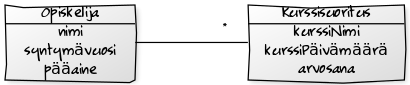
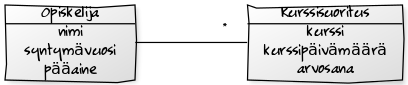
johdantoa relaatiomalliin

diff --git a/index.html b/index.html
@@ -201,9 +201,14 @@
 
                 <ul class="nav" id="material-toc"></ul>
 
-                <h1>Tehtävät</h1>
+                <h1>Materiaalin itseopiskelu- ja kertaustehtävät</h1>
 
                 <ul class="nav nav-pills nav-pills-fixed-width" id="tehtavat-toc"></ul>
+
+                <h1>Kurssin tehtävät</h1>
+
+		<p>tänne viikoittaiset laskarit..</p>
+
 
             </section>
             <!-- END INDEX -->
@@ -227,7 +232,11 @@
 
 		<p>Puhekielessä termillä tietokanta tarkoitetaan yleisesti ottaen tiedon tallentamiseen tarkoitettua paikkaa, josta tietoa voi myös hakea. Esimerkiksi kirkonkirjat voidaan nähdä eräänlaisena sukujen historiaa dokumentoivana tietokantana, jonka kautta sukututkija pääsee käsiksi sukunsa historiaan. Vaikka tietokannat ovat digitalisaation myötä siirtymässä paperisesta muodosta sähköiseen muotoon, on niiden tavoite pysynyt pitkälti samana: <em>haluamme säilöä tietoa, ja haluamme päästä tähän tietoon käsiksi</em>. Tällä kurssilla käsittelemme elektronisia tietokantoja, joiden kehittyminen on johtanut tilanteeseen, missä tietoa tallennetaan yhä enemmän ja sitä halutaan hyödyntää yhä monipuolisemmin.</p>
 
+		<p>[tehtävä: hae tietoa jostain olemassaolevasta tietokannasta ei-triviaalia käyttöliittymää käyttäen, esim. Hiski -- http://hiski.genealogia.fi/hiski/ ja http://digi.kansalliskirjasto.fi/?language=fi]</p>
+
 		<p>Nykyään tietokantoja on kaikkialla. Tämä kurssimateriaali sijaitsee tietokannassa, kurssitehtäviin liittyvät pisteet kirjataan tietokantaan, ja tehdessäsi kurssilla tarpeeksi töitä kurssiin liittyvien oppimistavoitteiden saavuttamiseksi kurssista kirjataan suoritusmerkintä tietokantaan. Jo pelkästään nykyaikaisessa kännykässäsi on kymmeniä erilaisia tietokantoja; yhteystiedot, kalenteri, herätyskello, aikavyöhykkeet, karttapalvelut, suosikkiverkkosivut, jonka lisäksi moni kännykkäsovellus hyödyntää yhtä tai useampaa tietokantaa. Tietokannat voivat olla paikallisia, eli ne voivat sijaita samalla koneella tietokantaa käyttävän ohjelmiston kautta, esimerkiksi kännykässä, tai ne voivat sijaita erillisellä palvelimella, johon otetaan tarvittaessa yhteyttä. Loppukäyttäjän näkökulmastasi tällä ei kuitenkaan ole juurikaan merkitystä. Näet tietokannasta haetun tiedon käyttämäsi sovelluksen tarjoaman näkymän kautta.</p>
+
+		<p>[tehtävä: pohdi järjestelmiä mihin olet kirjannut tietosi, paljonko näitä on? Toisaalta, kuinka monessa näistä tiedot ovat melko samat -- esimerkiksi nimi jne -- voisiko näitä jotenkin yhdistää?]</p>
 
 		<p>Käytämme tällä kurssilla yhtenä esimerkkinä opiskelun ja oppimisen seuraamiseen tarkoitettua järjestelmää, joka kehittyy materiaalin edetessä. Järjestelmä pitää kirjaa kursseista, opiskelijoista, kurssiharjoituksista, arvosanoista, kurssipalautteista, sekä muista oleellisista asioista, joita kurssin edetessä tulee esille. Jotta tämä onnistuisi, tarvitsemme jonkinlaisen jäsentelytavan eli rakenteen tallennettavalle tiedolle, tapoja tiedon tallentamiseen tässä sovitussa muodossa, sekä tapoja erilaisten raporttien luomiseen. Katsotaan miten käy..</p>
 
@@ -244,14 +253,14 @@
 
 		<p>Tietokantojen rakennetta ja jäsentelyä suunniteltaessa ongelmaa lähestytään tavoitteeseen liittyvien käsitteiden kautta, joiden avulla pyritään ymmärtämään mikä tiedosta on epäoleellista, ja mikä tulee säilöä. Samalla mietitään myös säilöttävien käsitteiden ominaisuuksia sekä käsitteiden suhteita. Esimerkiksi opiskelijan opintomenestyksen seurannassa oleellisia ovat ainakin käsitteet <em>Opiskelija</em> ja <em>Kurssisuoritus</em>, joilla on yhteys: opiskelijalla on kurssisuorituksia.</p>
 
-		<p>Tällä kurssilla tiedon mallintamiseen käytetään <a href="http://www.uml.org/" target="_blank">UML</a>-kieltä, johon syvennytään tarkemmin kurssilla <em>Ohjelmistotekniikan menetelmät</em>. Käytämme <a href="https://fi.wikipedia.org/wiki/Luokkakaavio" target="_blank">luokkakaavioita</a> käsitteiden ominaisuuksien ja suhteiden mallintamiseen, mutta, emme kuitenkaan seuraa määritelmää pilkuntarkasti.</p>
+		<p>Tällä kurssilla tiedon mallintamiseen käytetään <a href="http://www.uml.org/" target="_blank">UML</a>-kieltä, johon syvennytään tarkemmin kurssilla <em>Ohjelmistotekniikan menetelmät</em>. Käytämme <a href="https://fi.wikipedia.org/wiki/Luokkakaavio" target="_blank">luokkakaavioita</a> käsitteiden ominaisuuksien ja suhteiden mallintamiseen, mutta, emme kuitenkaan seuraa kuvaustapaa pilkuntarkasti.</p>
 
 		<figure>
 		  <img src="img/johdanto/opiskelija-ja-kurssisuoritus-erilliset-kasitteet.png" alt="Teksti 'Opiskelija' suunnikkaan sisään kirjoitettuna, Teksti 'Kurssisuoritus' toisen suunnikkaan sisään kirjoitettuna.">
 		  <figcaption>Käsitteet kuvataan laatikkoina, joiden sisällä on käsitteen nimi. Yllä käsitteet Opiskelija ja Kurssisuoritus.</figcaption>
 		</figure>
 
-		<p>Jos haluamme ilmaista, että käsite liittyy toiseen käsitteeseen, piirrämme käsitteiden välille viivan. Jos käsitteitä voi liittyä monia, lisäämme viivan päähän tähden. Alla olevassa kaaviossa on käsitteet Opiskelija ja Kurssisuoritus, sekä viiva käsitteiden välillä. Kun yhteyttä merkitsevän viivan päässä on tähti, se kertoo että tähden päässä olevia käsitteitä on useita.</p>
+		<p>Jos haluamme ilmaista, että käsite liittyy toiseen käsitteeseen, piirrämme käsitteiden välille viivan. [todo: osallistumisrajoitteet]. Jos käsitteitä voi liittyä monia, lisäämme viivan päähän tähden. Alla olevassa kaaviossa on käsitteet Opiskelija ja Kurssisuoritus, sekä viiva käsitteiden välillä. Kun yhteyttä merkitsevän viivan päässä on tähti, se kertoo että tähden päässä olevia käsitteitä on useita.</p>
 
 		<figure>
 		  <img src="img/johdanto/opiskelija-ja-kurssisuoritus-ei-attribuutteja.png" alt="Teksti 'Opiskelija' suunnikkaan sisään kirjoitettuna, Teksti 'Kurssisuoritus' toisen suunnikkaan sisään kirjoitettuna. Suunnikkaiden välille on piirretty viiva, jonka Kurssisuoritus-käsitteen päässä on tähti.">
@@ -262,13 +271,13 @@
 
 		<figure>
 		  <img src="img/johdanto/opiskelija-ja-ominaisuudet.png" alt="Teksti 'Opiskelija' suunnikkaan sisään kirjoitettuna, suunnikkaan alalaidassa kiinni toinen suunnikas, jossa tekstit 'nimi', 'syntymävuosi' ja 'pääaine' omilla riveillään. ">
-		  <figcaption>Käsittteillä voi olla ominaisuuksia. Yllä Opiskelija-käsitteeseen liittyy nimi, syntymävuosi, ja pääaine.</figcaption>
+		  <figcaption>Käsitteillä voi olla ominaisuuksia. Yllä Opiskelija-käsitteeseen liittyy nimi, syntymävuosi, ja pääaine.</figcaption>
 		</figure>
 
 		<p>Vastaavasti myös käsitteelle Kurssisuoritus voi merkitä ominaisuuksia. Alla kuvataan tieto siitä, että opiskelijaan liittyy useita kurssisuorituksia, jonka lisäksi käsitteisiin liittyvät ominaisuudet on myös merkitty.</p>
 
 		<figure>
-		  <img src="img/johdanto/opiskelija-ja-kurssisuoritus.png" alt="Teksti 'Opiskelija' suunnikkaan sisään kirjoitettuna, Teksti 'Kurssisuoritus' toisen suunnikkaan sisään kirjoitettuna. Suunnikkaiden välille on piirretty viiva, jonka Kurssisuoritus-käsitteen päässä on tähti.">
+		  <img src="img/johdanto/opiskelija-ja-kurssisuoritus.png" alt="Teksti 'Opiskelija' suunnikkaan sisään kirjoitettuna, Teksti 'Kurssisuoritus' toisen suunnikkaan sisään kirjoitettuna. Suunnikkaiden välille on piirretty viiva, jonka Kurssisuoritus-käsitteen päässä on tähti. Käsitteiden alla on myös niiden ominaisuudet kuten edellisessä kuvassa.">
 		  <figcaption>Opiskelijaan liittyy useita kurssisuorituksia. Käsitteille on merkitty myös ominaisuudet.</figcaption>
 		</figure>
 
@@ -323,9 +332,9 @@
 		  </table>
 		</div>
 
-		<br/>
+		<p>Vastaavasti myös kurssisuorituksia kuvaamaan voisi tehdä oman erillisen taulun. Kysymykseksi nouseekin "Miten yhdistämme Opiskelijaa kuvaavan taulun ja Kurssisuoritusta kuvaavan taulun tietoja?". </p>
 
-		<p>Vastaavasti myös kurssisuorituksia kuvaamaan voisi tehdä oman erillisen taulun. Huomaamme kuitenkin, että opiskelijoiden yhdistäminen kurssisuorituksiin ei ole täysin triviaalia. Palaamme tähän myöhemmin kurssilla.</p>
+		<p>[tehtävä: ideointia yhdistämistapoihin, johdattelua relaatiomalliin?]</p>
 
 
 		<h2>Tietokannanhallintajärjestelmä</h2>
@@ -364,17 +373,125 @@
 
 		</aside>
 
-
-		<h1>Relaatiotietokannat</h1>
-
-		<p>relaatio</p>
-
-		<p>vahva kytkös olio-ohjelmoinnin kehitykseen, "siinä on käsite"</p>
-
-		<p>asidena historiaa</p>
+		<h2>Tiedon käsittely ohjelmallisesti</h2>
 
 
-		<h2>Tiedon hakeminen relaatiotietokannasta: SQL</h2>
+		<p>TODO: halutaanko case?</p>
+
+
+
+		<h1>Relaatiomalli ja relaatiotietokannat</h1>
+
+
+		<p>Relaatiomallin perusajatus on tallennettavan tiedon jakaminen käsitteisiin sekä käsitteiden välisiin yhteyksiin. Jokaista käsitettä vastaa relaatiotietokannassa taulu, ja jokaiselle käsitteen ominaisuudelle -- attribuutille -- on taulussa oma sarake. Jokainen taulun rivi vastaa yhtä käsitteen ilmentymää, ja käsitteiden väliset yhteydet ilmenevät käsitteen ilmentymän yksilöivän attribuutin tai attribuuttiyhdistelmän, eli avaimen perusteella.</p>
+
+		<p>Kun pohdimme Opiskelija-käsitettä, jolla on nimi, syntymävuosi, ja pääaine, huomaamme, ettei yksikään edellämainituista attribuuteista tai niiden yhdistelmistä todellisuudessa yksilöi opiskelijaa. Esimerkiksi vuonna 1991 syntyneitä matematiikkaa opiskelevia Anna-nimisiä opiskelijoita löytyy useampia.</p>
+
+		<p>Ratkaistaan ongelma lisäämällä Opiskelija-käsitteeseen opiskelijan yksilöivä opiskelijanumero.</p>
+
+		<figure>
+		  <img src="img/johdanto/opiskelija-ja-opiskelijanumero.png" alt="Teksti 'Opiskelija' suunnikkaan sisään kirjoitettuna, suunnikkaan alalaidassa kiinni toinen suunnikas, jossa tekstit 'opiskelijanumero', 'nimi', 'syntymävuosi' ja 'pääaine' omilla riveillään. ">
+		  <figcaption>Opiskelija-käsitteeseen on lisätty nimen, syntymävuoden ja pääaineen lisäksi opiskelijanumero. Opiskelija-käsitteeseen liittyvä opiskelijanumero on alleviivattu sen selkeyttämiseksi, että se on jokaiselle Opiskelijalle uniikki.</figcaption>
+		</figure>
+
+		<p>Nyt jokaisella Opiskelijalla on opiskelijanumero. Käsitteen yksilöivä attribuutti, eli avain, alleviivataan kaaviossa. Opiskelijaa kuvaavassa taulussa jokaiseen opiskelijaan tulee nyt myös lisätä opiskelijanumero.</p>
+		
+		<div class="data-table">
+		  <h4>Opiskelija</h4>
+		  <table class="table">
+		    <thead>
+		      <tr>
+			<th>Opiskelijanumero</th>
+			<th>Nimi</th>
+			<th>Syntymävuosi</th>
+			<th>Pääaine</th>
+		      </tr>
+		    </thead>
+		    <tbody>
+		      <tr>
+			<td>9999999</td>
+			<td>Pihla</td>
+			<td>1997</td>
+			<td>Tietojenkäsittelytiede</td>
+		      </tr>
+		      <tr>
+ 			<td>9999998</td>
+			<td>Joni</td>
+			<td>1993</td>
+			<td>Tietojenkäsittelytiede</td>
+		      </tr>
+		      <tr>
+			<td>...</td>
+			<td></td>
+			<td></td>
+			<td></td>
+		      </tr>
+		    </tbody>
+		  </table>
+		</div>
+
+		<figure>
+		  <img src="img/johdanto/opiskelija-opiskelijanumerolla-ja-kurssisuoritus.png" alt="Teksti 'Opiskelija' suunnikkaan sisään kirjoitettuna, Teksti 'Kurssisuoritus' toisen suunnikkaan sisään kirjoitettuna. Suunnikkaiden välille on piirretty viiva, jonka Kurssisuoritus-käsitteen päässä on tähti. Käsitteillä myös ominaisuudet. ">
+		  <figcaption>Opiskelijaan liittyy yksi tai useampi kurssisuoritus.</figcaption>
+		</figure>
+
+		<p>Opiskelijanumeron lisäämisen takia käsitteiden Opiskelija ja Kurssisuoritus yhdistäminen on mahdollista. Koska opiskelijaan liittyy yksi tai useampi kurssisuoritus, määrittelemme Kurssisuoritus-käsitettä kuvaavaan tauluun Opiskelija-sarakkeen, jossa on aina kyseiseen riviin liittyvään kurssisuoritukseen liittyvän opiskelijan opiskelijanumero.</p>
+
+		<div class="data-table">
+		  <h4>Kurssisuoritus</h4>
+		  <table class="table">
+		    <thead>
+		      <tr>
+			<th>Opiskelija</th>
+			<th>Kurssi</th>
+			<th>Kurssipäivämäärä</th>
+			<th>Arvosana</th>
+		      </tr>
+		    </thead>
+		    <tbody>
+		      <tr>
+			<td>9999999</td>
+			<td>Ohjelmoinnin perusteet</td>
+			<td>1.8.2014</td>
+			<td>5</td>
+		      </tr>
+		      <tr>
+			<td>9999999</td>
+			<td>Ohjelmoinnin jatkokurssi</td>
+			<td>1.8.2014</td>
+			<td>5</td>
+		      </tr>		      
+		      <tr>
+			<td>9999999</td>
+			<td>Tietokantojen perusteet</td>
+			<td>20.10.2014</td>
+			<td>3</td>
+		      </tr>
+		      <tr>
+			<td>...</td>
+			<td></td>
+			<td></td>
+			<td></td>
+		      </tr>		      
+		      <tr>
+ 			<td>9999998</td>
+			<td>Ohjelmoinnin perusteet</td>
+			<td>1.8.2013</td>
+			<td>4</td>
+		      </tr>
+		      <tr>
+			<td>...</td>
+			<td></td>
+			<td></td>
+			<td></td>
+		      </tr>
+		    </tbody>
+		  </table>
+		</div>
+
+
+		<h2>SQL-kyselykieli</h2>
+
 
 
 <!--
